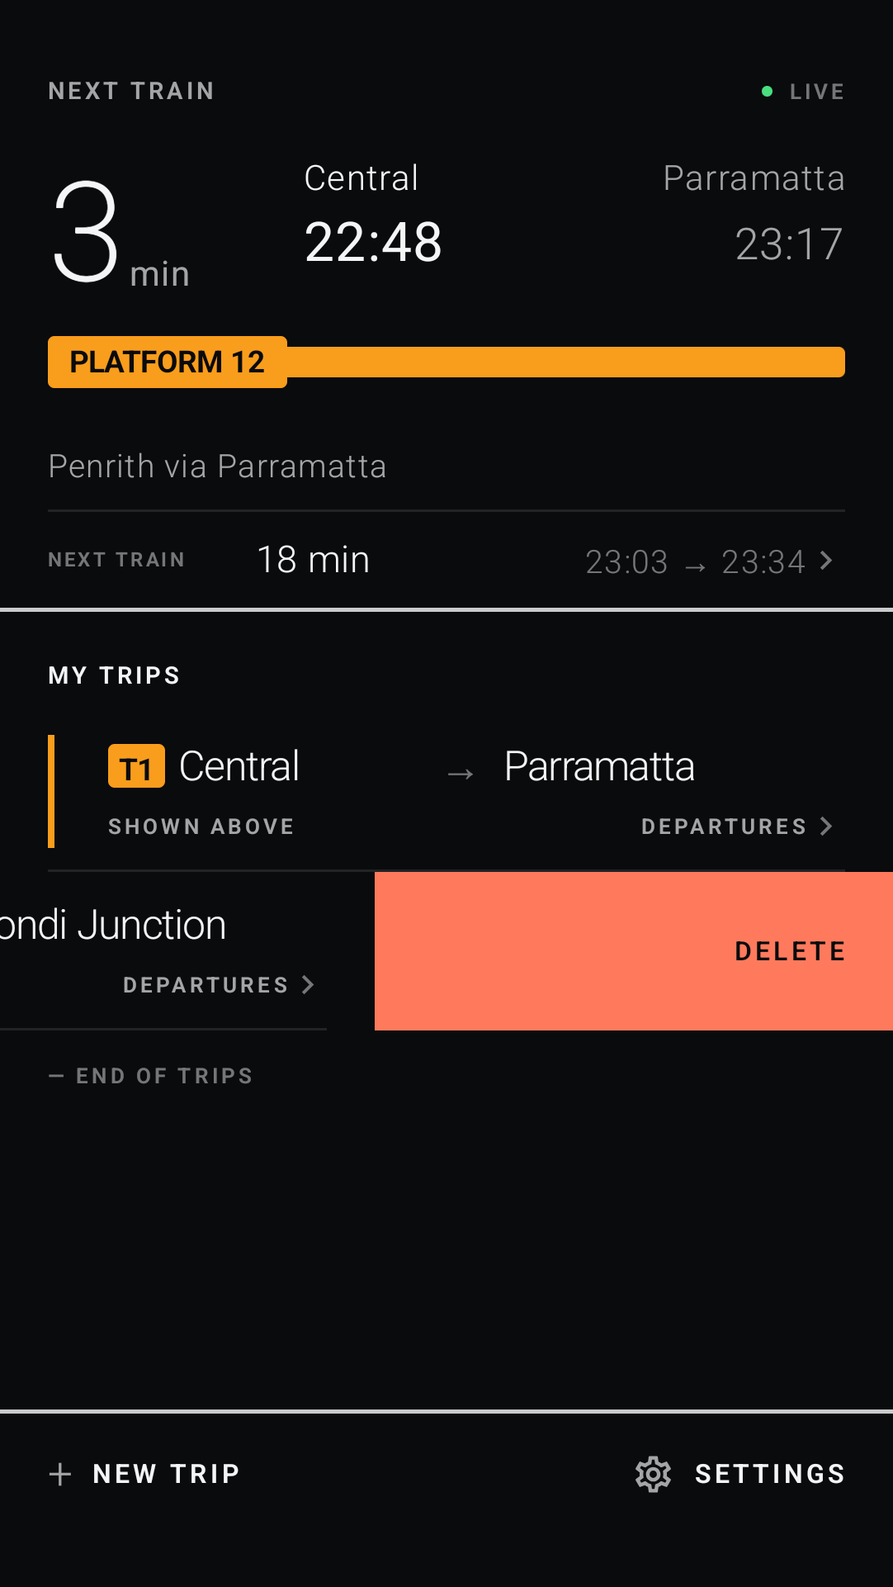
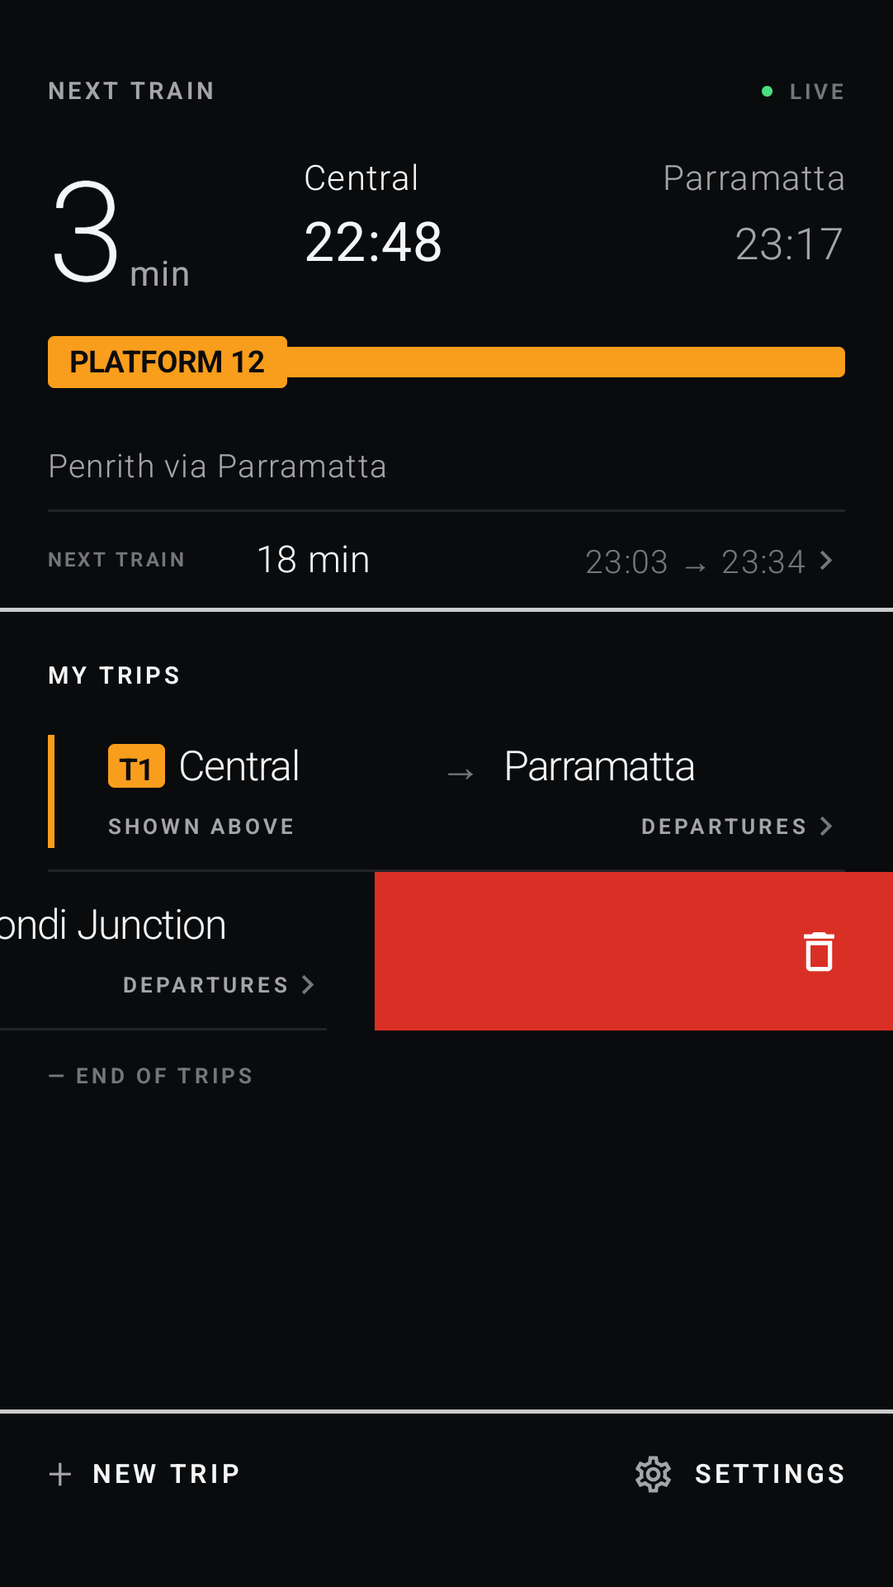
swipe-to-delete phase 3: Gmail-red Android dismiss, approved frames and baselines

Changed region(s): [[0.3965, 0.5307, 1.0, 0.6556]]

diff --git a/android/app/src/main/java/com/ilovetrains/app/UiHome.kt b/android/app/src/main/java/com/ilovetrains/app/UiHome.kt
@@ -9,6 +9,7 @@ import androidx.compose.foundation.lazy.LazyColumn
 import androidx.compose.foundation.lazy.items
 import androidx.compose.material.icons.Icons
 import androidx.compose.material.icons.filled.PushPin
+import androidx.compose.material.icons.outlined.Delete
 import androidx.compose.material.icons.outlined.Settings
 import androidx.compose.material3.Icon
 import androidx.compose.material3.DropdownMenu
@@ -20,6 +21,7 @@ import androidx.compose.material3.Text
 import androidx.compose.runtime.*
 import androidx.compose.ui.Alignment
 import androidx.compose.ui.Modifier
+import androidx.compose.ui.graphics.Color
 import androidx.compose.ui.platform.LocalDensity
 import androidx.compose.ui.semantics.CustomAccessibilityAction
 import androidx.compose.ui.semantics.Role
@@ -32,6 +34,9 @@ import androidx.compose.ui.text.style.TextAlign
 import androidx.compose.ui.text.style.TextOverflow
 import androidx.compose.ui.unit.dp
 import androidx.compose.ui.unit.sp
+
+/** Gmail's dismiss red, the swipe background Android users already know. */
+private val DismissRed = Color(0xFFD93025)
 
 @Composable
 fun HomeScreen(state: AppState, actions: UiActions) {
@@ -260,8 +265,8 @@ private fun SavedTripRow(trip: SavedTrip, state: AppState, actions: UiActions, m
     // Plain remember: the lazy list's saved state would bring an undone row back already dismissed.
     val dismissState = remember(trip.id) { SwipeToDismissBoxState(SwipeToDismissBoxValue.Settled, positionalThreshold = { it * 0.5f }) }
     SwipeToDismissBox(dismissState, backgroundContent = {
-        Box(Modifier.fillMaxSize().background(c.warning).padding(horizontal = PagePadding), contentAlignment = Alignment.CenterEnd) {
-            Label("Delete", color = c.ground, size = 12)
+        Box(Modifier.fillMaxSize().background(DismissRed).padding(horizontal = PagePadding), contentAlignment = Alignment.CenterEnd) {
+            Icon(Icons.Outlined.Delete, contentDescription = null, Modifier.size(24.dp), tint = Color.White)
         }
     }, modifier = modifier.testTag("trip-${trip.id}"), enableDismissFromStartToEnd = false,
         onDismiss = { actions.deleteTrip(trip.id) }) {

diff --git a/docs/backlog/swipe-to-delete/comps/index.html b/docs/backlog/swipe-to-delete/comps/index.html
@@ -36,16 +36,16 @@
 </header>
 
 <div class="ask">
-  <p><b>THE TWO THINGS TO JUDGE.</b> (1) The Android reveal: a full-bleed
-  warning-coloured background with a small <b>DELETE</b> label at the page
-  margin, uncovered as the row moves. (2) The bar with the label swapped to
-  <b>UNDO</b>. Each is a yes or a note on what to change.</p>
+  <p><b>RULED 2026-09-07.</b> Both platforms approved on the proviso that each
+  swipe looks native. iOS is the system swipe action. Android's background
+  is now Gmail's red with a white trash icon, chosen over the theme-warning
+  <b>DELETE</b> label (<code>android-swipe-background-a-vs-b.png</code>); the Android frames below are the ruled version.</p>
 </div>
 
 <h2>Android &middot; mid-drag, then deleted</h2>
 <p class="note">The row is held just past the halfway point, where releasing
-commits. The background runs edge to edge, like Gmail; the label sits on the
-page margin. Once released the row fades out and the bar appears. The 412-wide
+commits. The background is Gmail's red running edge to edge, with the trash
+icon on the page margin. Once released the row fades out and the bar appears. The 412-wide
 phone is the same composition. At enlarged text the bar message wraps to a
 second line rather than losing its last word; the first cut of this frame
 squeezed <b>UNDO</b> against the text and then dropped &ldquo;deleted&rdquo;,

diff --git a/docs/backlog/native-review/build_plan.md b/docs/backlog/native-review/build_plan.md
@@ -1,0 +1,255 @@
+# Native review: build plan
+
+Draft, 2026-09-07, updated the same day for the owner's rulings (iOS is the
+reference for the journey axis, the full wharf label everywhere, and the web
+decides every other divergence). Phases are ordered so that global passes
+and shared contract text land before parallel platform work forks. Phases
+2–7 are independent of each other once Phase 0 and Phase 1 are done and may
+run in parallel worktrees; Phase 8 (tests) and Phase 9 (verification) close.
+
+Finding letters (A1, C3, …) refer to `design.md`. Items marked **[ruling n]**
+are blocked on the numbered decision under "Decisions still needed" in
+`design.md`; everything else is buildable now. Do not start a blocked item
+under an assumed answer.
+
+Verify gates use the repository's four test commands (`go test ./...`,
+`(cd web && npm test)`, `tools/build-android.sh`, `tools/build-ios.sh --test`)
+plus `tools/visual-regression.js` for any phase that reaches a screen.
+Accepted baselines are committed with the phase that changed them.
+
+## Phase 0: contract text
+
+Owns: `docs/contracts/native-data.md`, `docs/contracts/client-storage.md`,
+`docs/contracts/ui.md`, `docs/contracts/android-deviations.md`,
+`docs/contracts/ios-deviations.md`.
+
+- Move the realtime ordering and in-flight guard sentence from the iOS
+  section of `native-data.md` into the shared realtime section (A2).
+- Reword the service-day scan and the Circular Quay floor to match the code
+  **[ruling 3]** (A7, A8).
+- Record in `ui.md` that the initial ferry cap and every boarding clause use
+  the full departure label wherever it is available (owner ruling 2, C3).
+- Record the native board page size and footer rule **[ruling 1]** (C10,
+  F7), the `quick_check` marker **[ruling 2]** (E1), and the offline
+  timetable freshness line **[ruling 4]** (C6).
+- Remove from `ios-deviations.md` anything the web ruling now overrides
+  (setup mode filtering, "metro" wording) and from `android-deviations.md`
+  the `Now` size note that the shared three-character rule replaces (D5).
+
+Verify: contract diff reviewed against `design.md`; no code. Done marker:
+every ruling in `design.md` has a contract sentence.
+
+## Phase 1: shared routing and realtime correctness
+
+Owns Android: `OfflineRealtime.kt`, `OfflineRouter.kt`, `OfflinePlanner.kt`,
+`OfflineRealtimeTest.kt`, `OfflineRouterTest.kt`.
+Owns iOS: `OfflineRealtime.swift`, `OfflineRouter.swift`,
+`OfflinePlanner.swift`, `OfflineRealtimeTests.swift`,
+`OfflineRouterTests.swift`.
+
+Seam contract: `overlay(List)` is the only production overlay of
+connections; it never sets `cancelled` for a `skipped` stop, only
+`pickupType`/`dropOffType = 1` (A1). `accept` rejects a header older than
+the stored one and derives `expiresAt = min(payload, header + 90_000)` (A2,
+A3). Android's `update()` restores the previous generation when `open`
+fails (A4) and validates `application_id`, manifest `bytes ≤ 300 MiB` and
+ordered dates (A5). The single-connection overlay is deleted on both
+platforms and its tests re-target the list overlay (A6).
+
+Verify: Android gains the A→B→C skipped-stop test mirrored from
+`OfflineRealtimeTests`; both suites green; `OfflinePlannerInstrumentedTest`
+unchanged. Done marker: `grep 'overlay(' ` finds only list and journey
+forms on both platforms.
+
+## Phase 2: Android travel mode and focus
+
+Owns: `Prediction.kt`, `TrainViewModel.kt` (focus, redirect, replan and
+`lastAnswer` paths only; the deletion/undo code is bound by `client-storage.md`'s Android and iOS storage sections),
+`BoardRetention.kt`, `PredictionTest.kt`, `BoardRetentionTest.kt`.
+
+Seam contract: `inferredFocus` requires a finite origin→destination
+distance (B1). `saveTrip` after `newTrip` from an inferred focus matches the
+first leg's line and scheduled departure in the new pair's board and
+re-focuses `pinned = false`, else opens the board (B3; iOS `resolveRedirect`
+is the reference). Home votes only from Home (B6). Alternatives on the focus
+board keep their observed values; no `scheduledOnly()` sweep (B8). The
+background replan marks the base `offline` only when the online request
+failed (B9). `lastAnswer` follows the web: recorded from any fresh shown
+answer with the shown board and lead, cleared only on release and deletion
+(B5). Replacement and next-service candidates are filtered so every leg's
+mode is enabled (B4).
+
+Verify: new `PredictionTest` case with an uncoordinated destination; new
+JVM `TrainViewModel` test (see Phase 8) covering redirect, vote gating, the
+server-stale replan and the `lastAnswer` lifecycle. Done marker: those tests
+exist and pass.
+
+## Phase 3: iOS travel mode, focus and location
+
+Owns: `TrainViewModel.swift` (focus, location, alternatives, `lastAnswer`
+and earlier paths only), `LocationService.swift`, `SetupView.swift` (origin
+guard and mode filter), `ControllerTests.swift`, `PredictionTests.swift`.
+
+Seam contract: destination proximity uses the saved trip's destination
+station (B2). Replacement and next-service candidates are filtered so every
+leg's mode is enabled (B4). `lastAnswer` follows the same web rule as
+Android (B5). A cleared or chosen origin is never overwritten by a late fix;
+the automatic prefill happens once on first run only (B7). `pause()` on
+`.inactive` keeps an in-flight permission request alive, or `resume()`
+re-requests after a grant regardless of screen (B10). `request(prompt:)`
+issues one `requestLocation` (B11). Setup search and `saveTrip` apply no
+mode filter (F10).
+
+Verify: `ControllerTests` cases for B2 (online-sourced focus completes at
+the trip destination), B4 and B5; simulator run of the setup flow with
+`--calibration setup`. Done marker: tests exist and pass.
+
+## Phase 4: copy and status parity with the web
+
+Owns Android: `UiHome.kt` (status, placeClause, rail, distanceText),
+`UiDetail.kt`, `UiCommon.kt` (Freshness, platformText, figure branches),
+`UiBoard.kt` (footer, empty-state copy), `UiSetup.kt` (nearest group,
+threshold), `UiSettings.kt` (threshold).
+Owns iOS: `HomeView.swift` (modeName, status, rail, summary, `Just added`),
+`DetailView.swift`, `Common.swift` (FreshnessView, platformText),
+`BoardView.swift` (footer, empty-state copy), `SetupView.swift` (nearest
+group), `SettingsView.swift` (threshold).
+
+Seam contract, each item naming the web function it ports:
+
+- `modeWords` (`journey.js`): `train` for everything but ferry; the
+  next-service rail alone says `metro`/`service` (C1).
+- `boardingLabel` / `boardingCapLabel` (`journey.js`): full label verbatim
+  when it already carries the place word or starts with `Side`; the initial
+  cap uses the full label, bare `Wharf` only when there is no number or
+  side (C2, C3, owner ruling 2).
+- `focusStatus` (`focus.js`): one function per platform feeding the header
+  line and the saved row: `Trip over`, `Cancelled`, `Running late`,
+  `Running`, plus the pin (C4, C5).
+- `ageLabel` (`time.js`) and `emptyCopy` (`board.js`) strings and the web
+  `stale` predicate (C6); the offline timetable line per **[ruling 4]**.
+- Empty-state slots derive from board status, never `state.message` (C7).
+- The rail uses `figureFor` (`countdownFigure`, rounded hours, blank only
+  when stale) (C8).
+- `Just added` on the automatic pair save's open, and the `NEAREST STATION`
+  group in setup once a fix exists (C9).
+- Footer per **[ruling 1]** (C10).
+- `formatDistance` (`home.js`) shared by header and row (C11).
+- `MIN_QUERY = 3` in both pickers (F3).
+- Dead figure branches removed (D7).
+
+Every string above already exists in `ui.md` or the web source; no new
+copy is drafted. Any string that turns out to be new goes through the
+`user-facing-copy` skill.
+
+Verify: JVM table test for the platform/wharf grammar mirroring
+`web/js/journey.js` cases (Android) and an XCTest twin; `HomeStatusTests`
+gains the Android twin; visual regression at 390×844 and 412×732, font
+scale 1.3 on Android. Done marker: baselines accepted for every frame that
+changed and the diff explained in the commit.
+
+## Phase 5: journey axis and layout
+
+Owns Android: `UiCommon.kt` (`JourneyAxis`, figure sizes), `UiBoard.kt`
+(`BoardRow`), `UiHome.kt` (header figure sizes), `UiSettings.kt` (feedback
+focus), a new `JourneyAxisGeometry.kt` with its JVM test.
+Owns iOS: `BoardView.swift` (`BoardRow` provenance line, figure size),
+`HomeView.swift` (figure size).
+
+Seam contract: Android ports iOS `JourneyAxisGeometry` as a pure function
+(measured chip and label sizes in, frames out) and lays the axis out from
+it, so change names sit beneath their dwell midpoint, clamped and wrapped,
+colliding names stacked, and `JourneyAxisLayoutTests` has a Kotlin twin
+(D1, owner ruling 1). Second-change alighting pin hidden on two-change
+results (D2). Dwell warning never on a cancelled journey (D3). Provenance is
+one reserved line on both (D4). Figures of three or more characters are
+`wide`: 28 on the board, 50 on Home, on both platforms (D5). Android
+feedback field shows focus with the strong rule and primary-ink label; the
+draft lives on the view model for the process lifetime (D6). The transfer
+cap and any change to how many names an axis must carry come from
+`docs/backlog/transfer-cap/`, not from this phase.
+
+Verify: Android `JourneyAxisGeometry` test equivalent to
+`JourneyAxisLayoutTests`; visual regression on `detail-two-change`,
+`board-transfer`, `home-active`, the offline-retained frames and the
+feedback frames. Done marker: baselines accepted.
+
+## Phase 6: performance
+
+Owns Android: `OfflinePlanner.kt`, `OfflinePackageStore.kt`,
+`OfflineRouter.kt`, `OfflineRealtime.kt`, `TrainViewModel.kt` (persist
+gating), `UiHome.kt`/`UiBoard.kt` (row parameters), `Storage.kt` (cache
+trim).
+Owns iOS: `OfflinePlanner.swift`, `OfflinePackageStore.swift`,
+`OfflineRouter.swift`, `OfflineRealtime.swift`, `DeviceStore.swift`,
+`AppState.swift`, `TransitAPI.swift`, `TransitModels.swift`,
+`OfflineZip.swift`, `SetupView.swift`, `SettingsView.swift`,
+`JourneyAxisLayout.swift`.
+
+Seam contract: a generation carries a verified marker written after a
+successful full validation; start-up runs only `user_version` and coverage
+when the marker exists **[ruling 2]** (E1); `initialize()` does not
+re-activate an already active generation. `persist()` runs only when
+`data` changed (E2). iOS cache trimming reads attributes only (E3); Android
+trims to the same bounds (F9). `tripKey` is stored (E4). Overlay mutates in
+place for snapshot trips and re-sorts only when a departure moved (E5).
+Router memoises long-wait ends, uses `eligible` in the stop test and bounds
+failed seeds (E6). `sydneyCalendar` is a `let`; trip scores are precomputed
+before sorting (E7). Static formatters (E8). Streamed extraction (E9). One
+computed `matches`/`results` per body pass; layout geometry cached by width
+(E10). Row composables take narrow parameters (E11). iOS shared refresh
+replans locally without a second departures request (E12).
+
+Verify: `OfflinePlannerPerformanceInstrumentedTest` numbers before and
+after recorded in the commit (extract/verify/open, first plan, cached
+plan); iOS equivalent via `OfflinePlannerTests` timing; unit suites green.
+Done marker: measured start-up and plan times in `native-data.md`'s
+measurement section replaced with the new numbers.
+
+## Phase 7: paging, simplification and dead code
+
+Owns: `Models.kt`, `TrainViewModel.kt` (`earlier`), `TransitApi.kt`,
+`Storage.kt`, `UiSetup.kt`, `UiSettings.kt`, `AndroidManifest.xml`,
+`AppState.swift`, `DeviceStore.swift`, `TrainViewModel.swift` (`earlier`),
+`TransitAPI.swift`, `AppView.swift`, `UiApp.kt`, `UiHome.kt`,
+`HomeView.swift`, `TransitModels.swift`.
+
+Seam contract: `earlier()` pages through the API exactly as `main.js` does
+(`at = earliest − step`, the web page limit **[ruling 1]**, 24-hour bound,
+generation and key guards, each page keeping its realtime), with one task
+handle and the local planner only when the request fails (F7).
+`reverseTrip` gone from `UiActions` and both models (F1). Unused members
+removed (F2). One `fuzzyScore` on Android (F3). One LRU owner on iOS using
+the web rule (F4). One feedback-success constant per platform (F5).
+`SavedTrip.lines` holds `(code, mode)` in travel order on both platforms,
+with a storage migration that reads the old string list (F6). Persisted
+journeys validated on decode (F8).
+
+Verify: `StorageTest`/`StorageTests` cover the `lines` migration; a paging
+test per platform against a fake API; unit suites green;
+`UiCalibrationTest` stub updated for the removed action. Done marker:
+`grep reverseTrip` returns nothing under `android/` or `ios/`.
+
+## Phase 8: tests
+
+Owns: `android/app/src/test/**`, `ios/ILoveTrainsTests/**`.
+
+- Android `WebConformanceTest` asserts `expected.noLocation`;
+  `RowConformanceTest` asserts `depTime`/`arrTime` (G1).
+- Android `TrainViewModelTest` with an injectable clock and dispatcher
+  covering redirect, vote gating, server-stale replan, mode hide/restore,
+  `lastAnswer` lifecycle and the fix-newer-than-tick case (G2).
+- iOS `OfflineZipTests`: table of hand-built malformed archives for every
+  rejection path (G3).
+- Every fix in Phases 1–7 lands with its regression test (G4).
+
+Verify: both unit suites green. Done marker: the four named test files
+exist.
+
+## Phase 9: verification wave
+
+No code. Run the four gates and `tools/visual-regression.js` on web,
+Android and iOS; drive the affected states on a real emulator and simulator
+at 390×844 and 412×732 (font scale 1.3 on Android); accept baselines; run
+the closeout in the `backlog-item` skill: migrate durable rules into the
+contracts, delete this folder, deploy per `docs/operations/deploy.md`.

diff --git a/docs/contracts/android-deviations.md b/docs/contracts/android-deviations.md
@@ -5,7 +5,7 @@ This file records deliberate differences between the native Android app and the 
 - System bars use Android edge-to-edge insets. The content starts below display cutouts and status icons and ends above gesture navigation rather than reproducing browser chrome or CSS safe-area behavior.
 - First launch with no saved trips requests Android location permission once, before trip setup. Granting it fills the nearest eligible station in From; denial leaves manual search available. There is no extra home-confirmation screen. A manually selected or cleared origin cannot be overwritten by a late fix. This initial fix casts no home vote; the chosen first trip origin supplies the existing home fallback. The automatic request is recorded locally and does not recur on restart. Settings says `Blocked in Android settings` after denial. Android does not show the web footer permission panel (owner ruling, 2026-09-07).
 - Android system Back performs the same navigation as each visible back control. The Compose screens do not add a second browser-style history mechanism.
-- Swiping a saved trip row towards the start edge deletes it: the Material dismiss pattern, with a `Delete` label on the warning-coloured background the row uncovers, committing past half the row width. The deletion is reversible for the undo window from the bottom message bar, which reads `{from} → {to} deleted` and whose label becomes `Undo`; the cached boards go when the window ends ([client-storage.md](client-storage.md#android-storage)). Long-pressing the row still opens a native menu with a separate `Delete trip` choice, equally undoable, and TalkBack exposes the same menu as `Trip actions`; the menu is the TalkBack and fallback path because the swipe is not exposed to accessibility services. The ordinary row stays visually identical to the web composition.
+- Swiping a saved trip row towards the start edge deletes it: the Material dismiss pattern, uncovering Gmail's red (`#D93025`) with a white trash icon at the page margin, committing past half the row width or on a flick. The deletion is reversible for the undo window from the bottom message bar, which reads `{from} → {to} deleted` and whose label becomes `Undo`; the cached boards go when the window ends ([client-storage.md](client-storage.md#android-storage)). Long-pressing the row still opens a native menu with a separate `Delete trip` choice, equally undoable, and TalkBack exposes the same menu as `Trip actions`; the menu is the TalkBack and fallback path because the swipe is not exposed to accessibility services. The ordinary row stays visually identical to the web composition.
 - Station search uses a native text field and keyboard action. Results and ranking remain local; the keyboard can resize the sheet rather than overlaying it as mobile browsers sometimes do.
 - Offline timetable status and its manual update action appear as a quiet Settings row beside feedback and version. The web app's service worker has no corresponding packaged-timetable lifecycle.
 - New offline journeys use the bundled timetable and conservative transfers within a station or wharf hub. Routes may differ from the online Trip Planner; cross-hub walks such as Wynyard–Barangaroo require the online fallback. Coverage gaps and realtime identity limits are recorded in [native-data.md](native-data.md).

diff --git a/docs/backlog/swipe-to-delete/design.md b/docs/backlog/swipe-to-delete/design.md
@@ -146,9 +146,10 @@ reader knows what was rejected.
 | Bar action | `Undo` · `Restore` | `Undo` |
 
 `{from}` and `{to}` are the trip's short station names, the same strings the
-row shows. The iOS swipe button and the Android revealed background both say
-`Delete`, the plain verb, matching the existing menu's `Delete trip` without
-the noun because the row itself is the noun. The bar text may wrap to a
+row shows. The iOS swipe button says `Delete`, the plain verb, matching the
+existing menu's `Delete trip` without the noun because the row itself is the
+noun. The Android background carries no copy: it is Gmail's red with a white
+trash icon (owner ruling, 2026-09-07), the affordance Android users know. The bar text may wrap to a
 second line at large text sizes and is ellipsised beyond that, so the verb
 survives; a one-line clip dropped the word `deleted` at font scale 1.3 (build
 decision, 2026-09-07).
@@ -182,6 +183,7 @@ decision, 2026-09-07).
 | 2026-09-07 | Undo bar reuses the existing bottom message bar with the label swapped. | Owner ruling |
 | 2026-09-07 | Copy: `{from} → {to} deleted` / `Undo`. | Owner ruling |
 | 2026-09-07 | Cache purge deferred to window expiry; everything else deletes immediately. | Owner ruling |
+| 2026-09-07 | Frames approved with the proviso that each platform's swipe looks native. iOS is the system swipe action. Android's background becomes Gmail's dismiss red with a white trash icon, chosen over the theme-warning `Delete` label from two shot frames. | Owner ruling |
 
 ## Build decisions (orchestrator, 2026-09-07)
 
@@ -189,9 +191,9 @@ Made on the orchestrator's own authority during the build; each is subject
 to the owner's phase 3 verdict on the frames.
 
 - **Android background is full-bleed.** The horizontal page padding moved
-  from the `LazyColumn` to each item, so the warning-coloured background
-  reaches both screen edges like the iOS swipe button, while the `Delete`
-  label and the row content keep the page inset. A row at rest is pixel
+  from the `LazyColumn` to each item, so the red background reaches both
+  screen edges like the iOS swipe button, while the trash icon and the row
+  content keep the page inset. A row at rest is pixel
   identical; the visual-regression run is the proof.
 - **A fast flick also commits.** `SwipeToDismissBox` has a fixed velocity
   threshold (Material's 125 dp/s) beside the positional one, so a short but

diff --git a/docs/contracts/ios-deviations.md b/docs/contracts/ios-deviations.md
@@ -18,9 +18,11 @@ iOS implementation requested on 2026-09-07.
   destructive `Delete` button and a full swipe commits without the tap. The
   native context menu still offers `Delete trip`. Either deletion is reversible
   for four seconds from the bottom bar, which reads `{from} → {to} deleted`
-  with an `Undo` label; the trip's cached boards are purged when the window
-  ends ([client-storage.md](client-storage.md#ios-storage)). The row otherwise
-  opens departures. `assets/comps/latest/ios-home-390x844-deleting.png` and
+  with an `Undo` label, wrapping to a second line rather than losing its verb;
+  the trip's cached boards are purged when the window ends
+  ([client-storage.md](client-storage.md#ios-storage)). The trips list is a
+  native `List` with plain style, zero insets and hidden separators so the row
+  at rest matches the previous stack. The row otherwise opens departures. `assets/comps/latest/ios-home-390x844-deleting.png` and
   `ios-home-390x844-deleted.png` are the exemplars. iOS follows the web's
   ten-trip LRU policy, including history and cache cleanup on eviction,
   instead of Android's unlimited saved list.

diff --git a/docs/backlog/swipe-to-delete/build_plan.md b/docs/backlog/swipe-to-delete/build_plan.md
@@ -173,6 +173,8 @@ Done when the gate is green on one booted iPhone simulator.
 
 ## Phase 3 — verification wave and owner verdict — DONE marker: `swipe-to-delete phase 3` commit
 
+**DONE 2026-09-07.** Owner approved both platforms with the native-look proviso; Android background ruled to Gmail red with a trash icon; frames in `assets/comps/latest/`, baselines accepted and verified `same` on both devices.
+
 **Status 2026-09-07:** steps 1–5 done, step 6 awaits the owner's verdict on
 `comps/index.html`. Findings from the verification wave:
 
